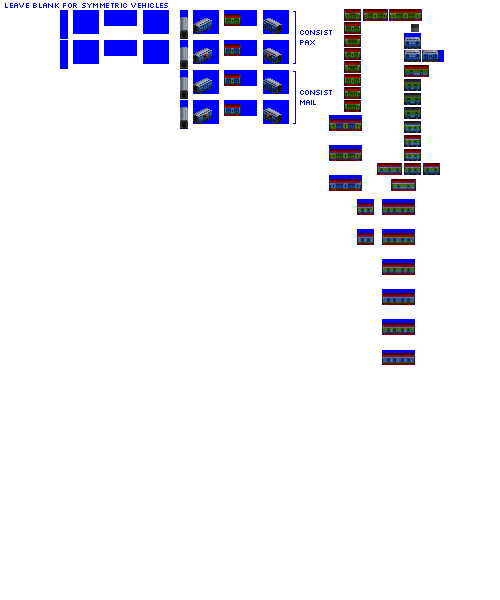
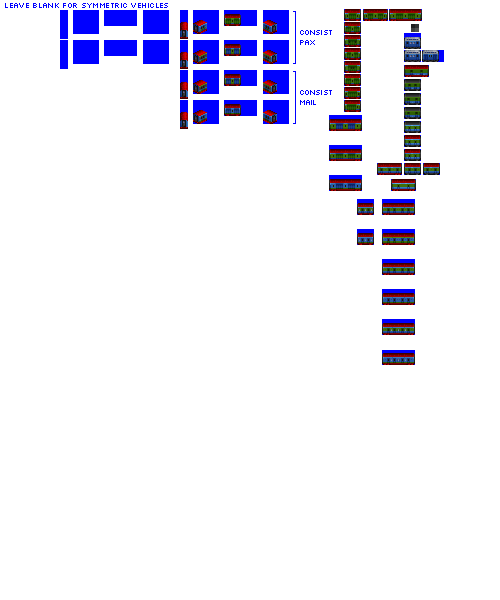
Change: sprites complete for gen 6B and 6C mail cars

Changed region(s): [[0.36, 0.03, 0.42, 0.21], [0.51, 0.03, 0.57, 0.21]]

diff --git a/src/vehicles/mail_cars.py b/src/vehicles/mail_cars.py
@@ -167,7 +167,8 @@ def main():
     consist = MailCarConsist(roster='pony',
                              base_numeric_id=1950,
                              gen=6,
-                             subtype='B')
+                             subtype='B',
+                             sprites_complete=True)
 
     consist.add_unit(type=PaxMailCar,
                      capacity=12,
@@ -177,7 +178,8 @@ def main():
     consist = MailCarConsist(roster='pony',
                              base_numeric_id=10,
                              gen=6,
-                             subtype='C')
+                             subtype='C',
+                             sprites_complete=True)
 
     consist.add_unit(type=PaxMailCar,
                      capacity=15,
